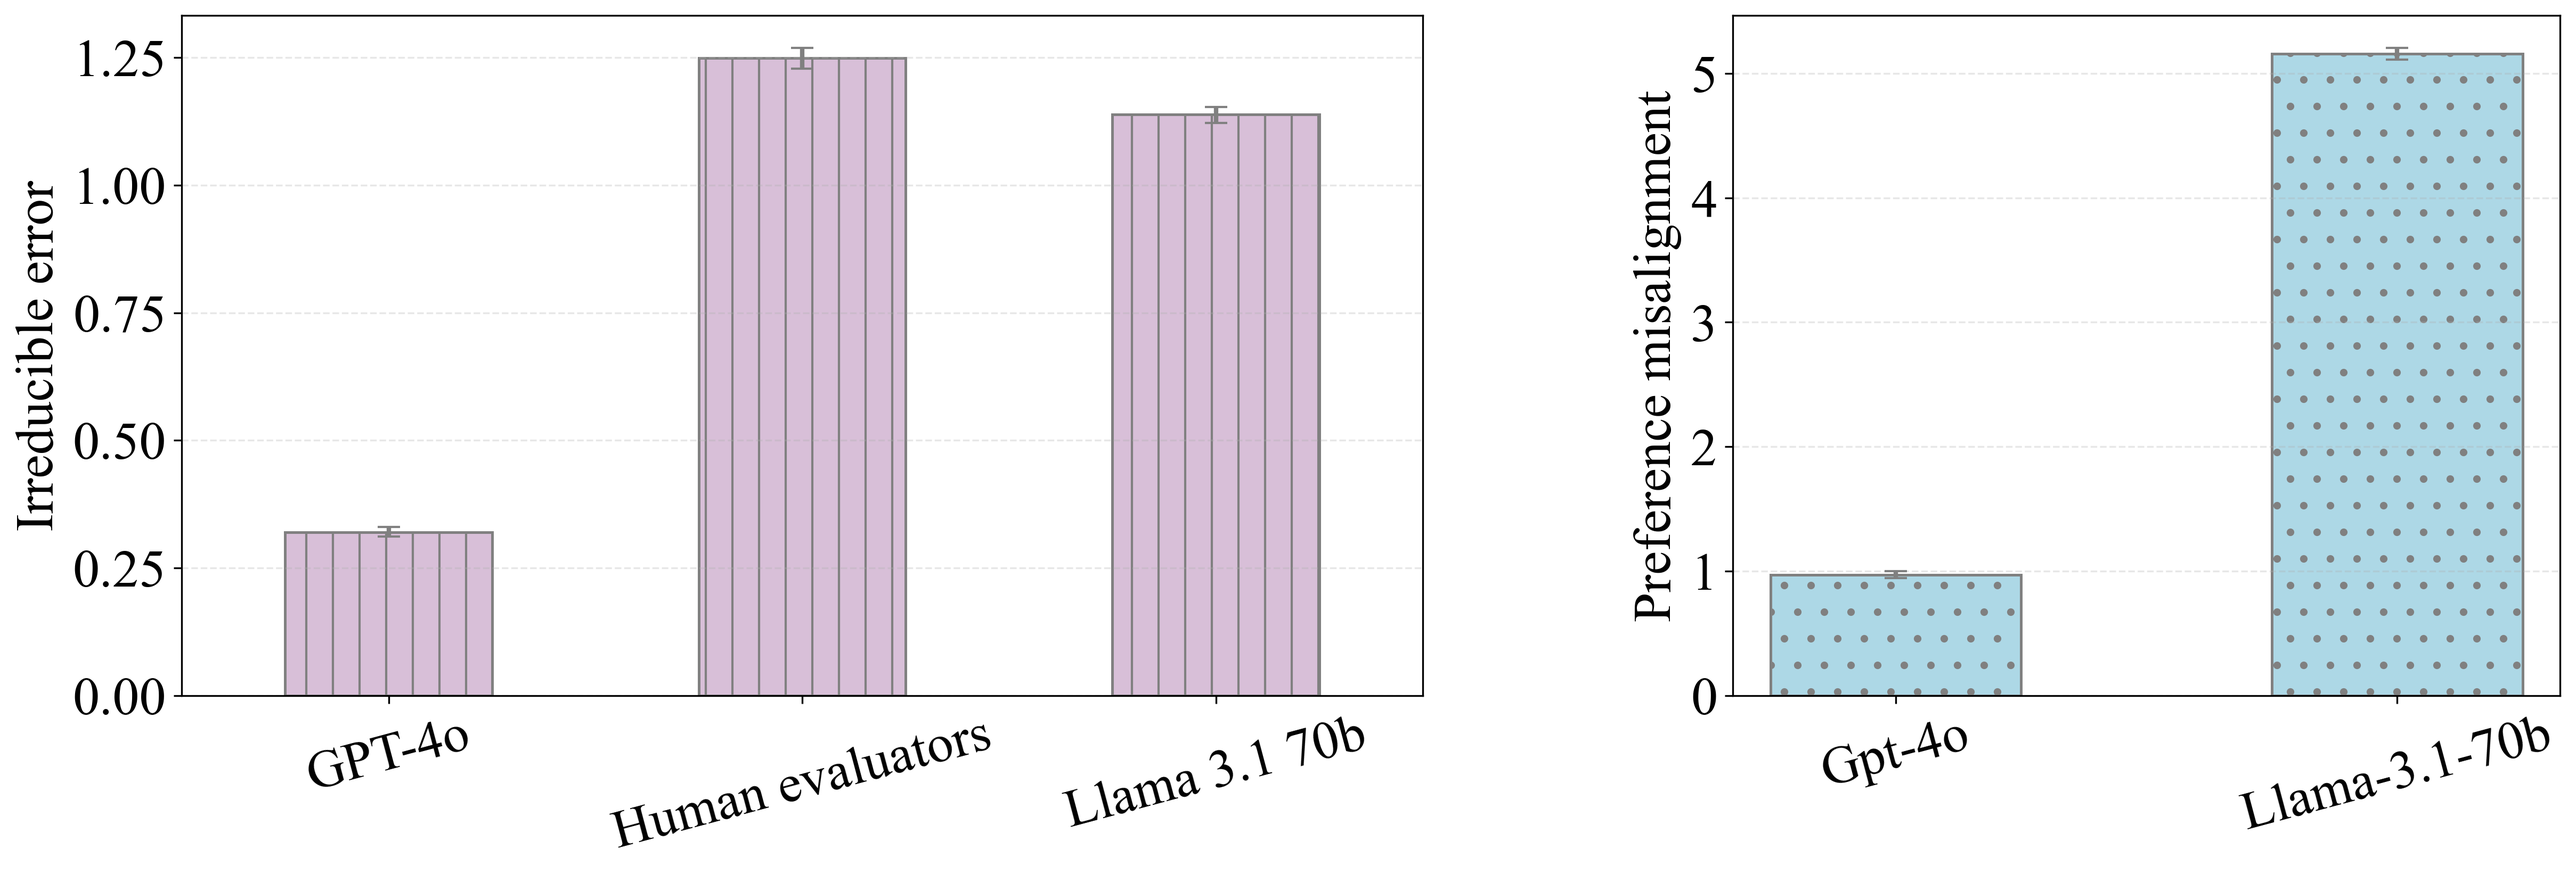
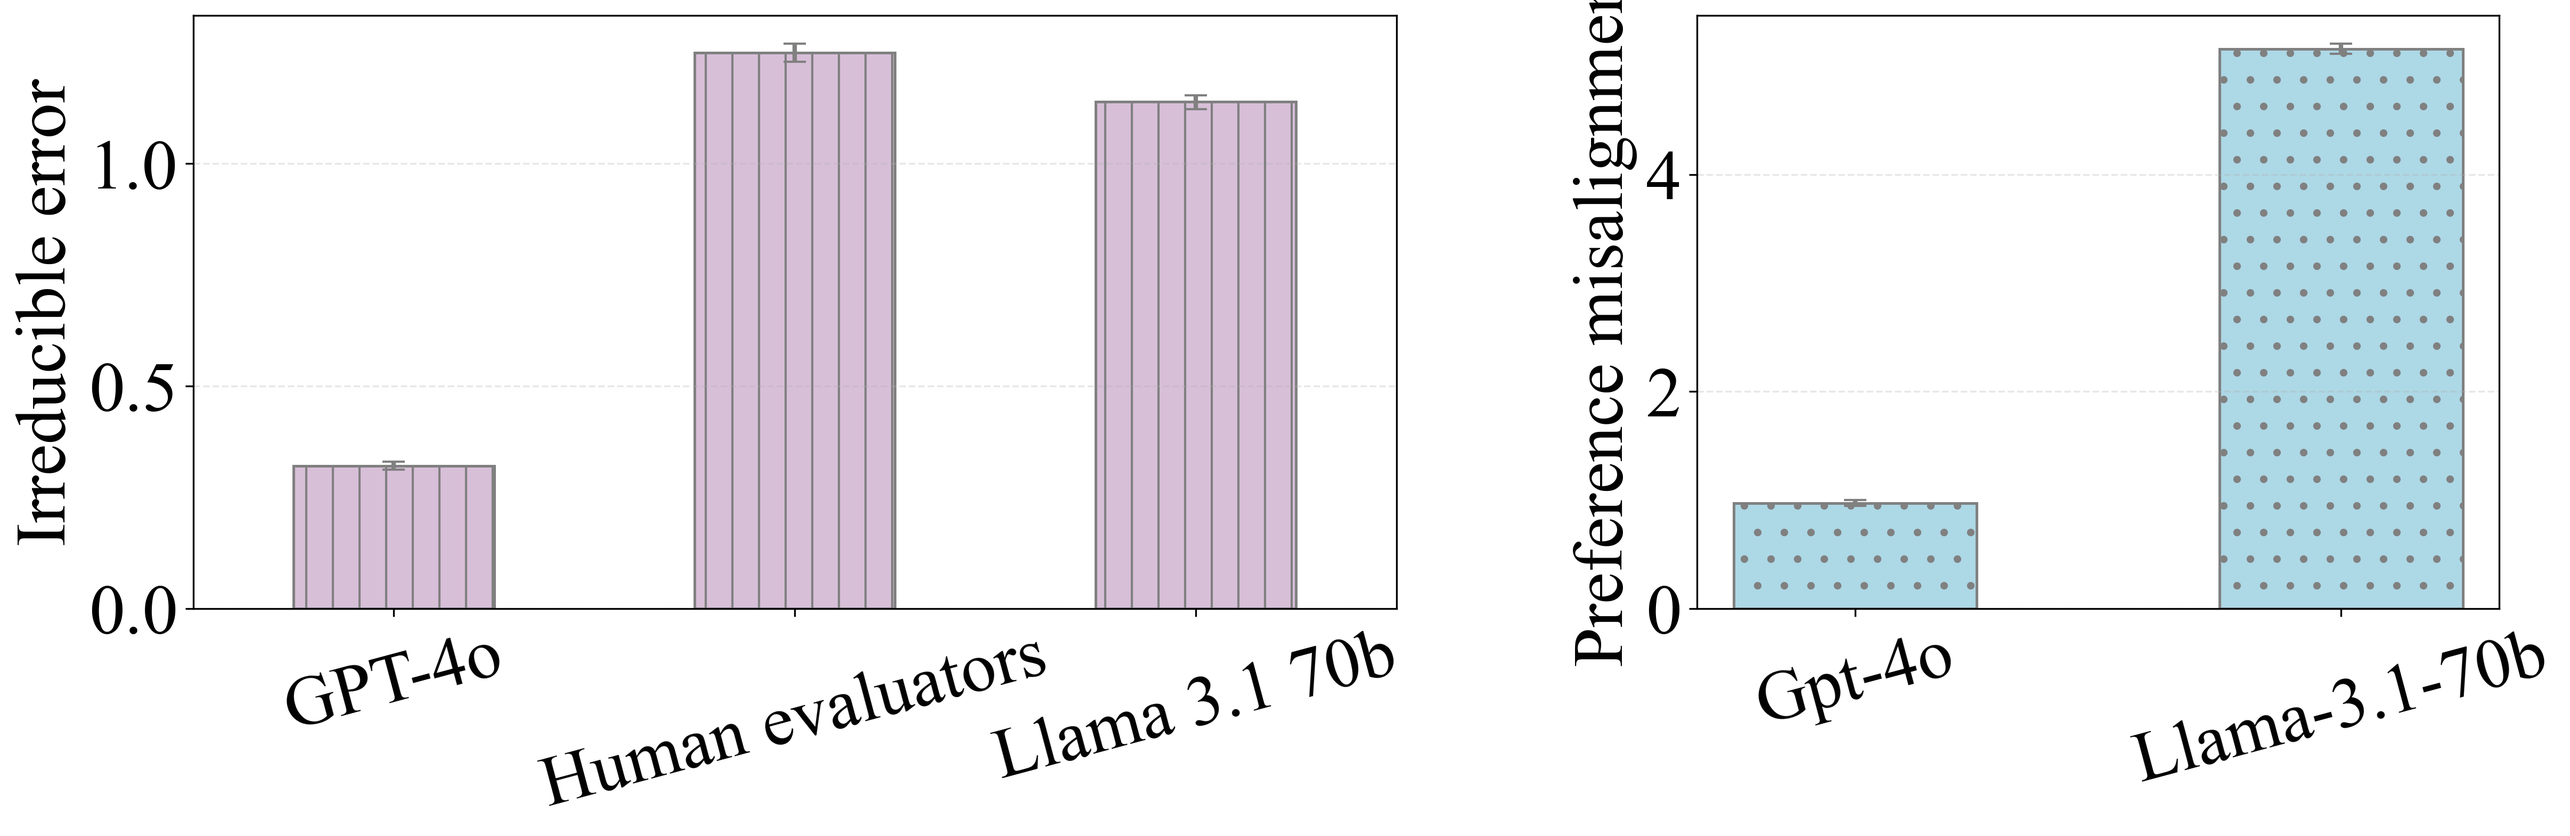
minor

diff --git a/plots.py b/plots.py
@@ -2,7 +2,7 @@ import pandas as pd
 import numpy as np
 import matplotlib.pyplot as plt
 
-plt.rcParams['font.size'] = 28
+plt.rcParams['font.size'] = 30
 plt.rcParams['font.family'] = 'Times New Roman'
 
 # ── Shared constants ─────────────────────────────────────────────────────────
@@ -64,8 +64,8 @@ plot(4, 8, 'trip_advisor')
 
 
 def plot_noise_and_alignment():
-    df_noise = pd.read_csv('noise_summary.csv')
-    df_align = pd.read_csv('residuals_human.csv')
+    df_noise = pd.read_csv('results/irreducible_error.csv')
+    df_align = pd.read_csv('results/residuals_human.csv')
 
     ci_noise = 1.96 * df_noise['se_noise']
     ci_align = 1.96 * df_align['se']
@@ -83,14 +83,20 @@ def plot_noise_and_alignment():
         sharey=False,
     )
 
-    # ── Left subplot: Noise ──────────────────────────────────────────────────
+    x_noise = np.arange(len(df_noise))
+
+    yerr_noise = np.array([
+        df_noise['mean_noise'] - df_noise['lower_ci'],  # lower error
+        df_noise['upper_ci'] - df_noise['mean_noise'],  # upper error
+    ])
+    # ── Left subplot: Noise ──────────────────────────────────────────────
     ax1.bar(x_noise, df_noise['mean_noise'], color='thistle', hatch='|',
-            yerr=ci_noise, **BAR_KWARGS)
+            yerr=yerr_noise, **bar_kwargs)
     ax1.set_ylabel('Irreducible error')
     ax1.set_xticks(x_noise)
     ax1.set_xticklabels(df_noise['name'], rotation=15, ha='center')
     ax1.grid(axis='y', alpha=0.3, linestyle='--')
-    ax1.set_xlim(-0.5, n_noise - 0.5)
+    ax1.set_xlim(-0.5, len(df_noise) - 0.5)
 
     # ── Right subplot: Alignment ─────────────────────────────────────────────
     ax2.bar(x_align, df_align['mean'], color='lightblue', hatch='.',

diff --git a/read_me.md b/read_me.md
@@ -69,7 +69,7 @@ python synthetic_simulations.py
 ```
 
 ### Figures
-Reproduces all figures in the paper: use plot_synthetic (for synthetic simulations), plots_stats (for other plots), plot_understanding (for criteria plot in the appendix)
+Reproduces all figures in the paper: use plot_synthetic (for synthetic simulations), plot_understanding (for criteria plot in the appendix for the Tripadvisor data), plots (for other plots)
 
 ## Computational Requirements
 
